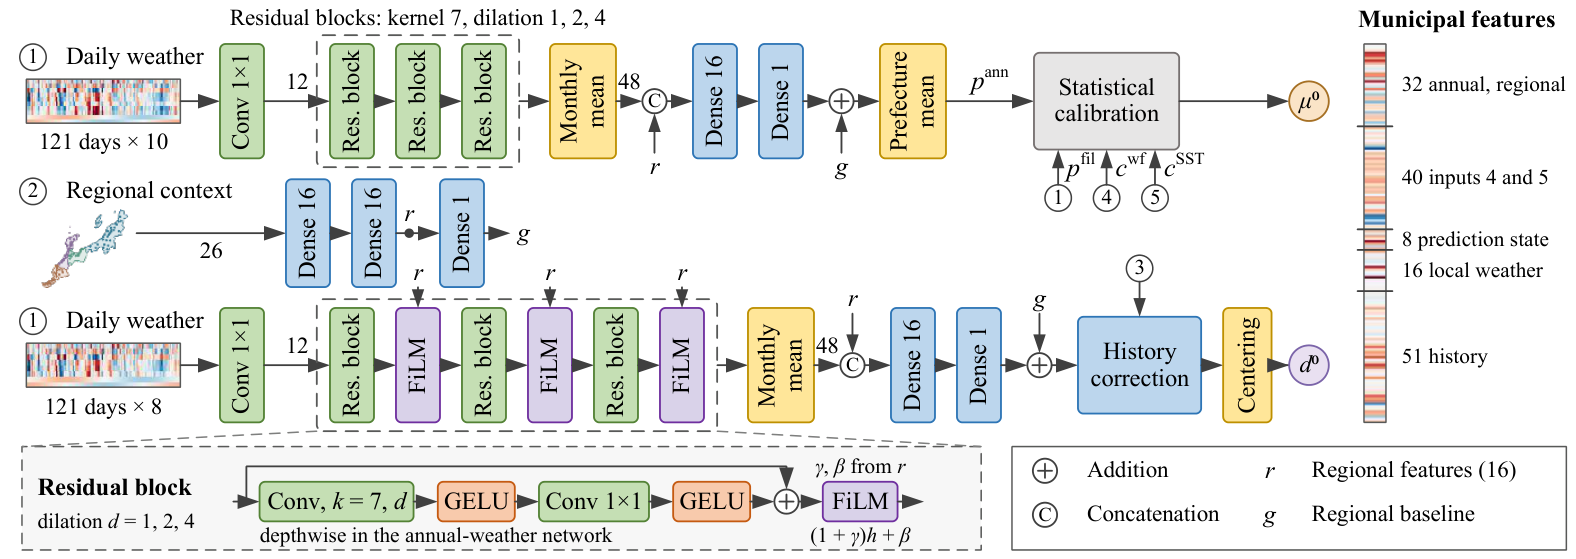
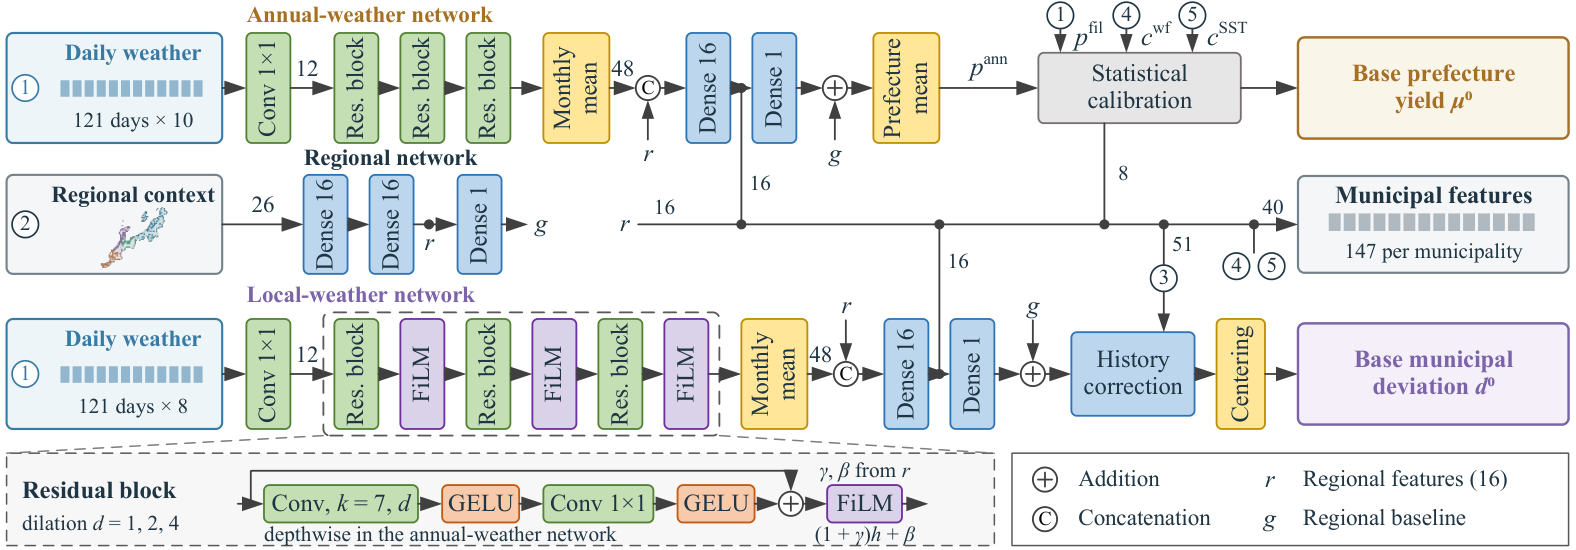
Link the HWSF code repository and update Figs. 6 and 7
The Code button and the data section now point to the HWSF repository
and its fitted models; the base prediction and hierarchical correction
figures follow the revised manuscript.

diff --git a/index.html b/index.html
@@ -86,7 +86,7 @@
     <span>Annual refitting, 2019&ndash;2025</span>
     <span>Prediction intervals</span>
   </div>
-  <p class="links"><a href="https://github.com/boukuhaku/yield-prediction/tree/deeplearning">Code (GitHub)</a></p>
+  <p class="links"><a href="https://github.com/boukuhaku/HWSF">Code (GitHub)</a> <a href="https://github.com/boukuhaku/HWSF/releases">Fitted models</a></p>
 </header>
 
 <figure class="narrow">
@@ -193,7 +193,7 @@
       <figcaption>Ocean regions of the SST indices and the domain of the SST maps.</figcaption>
     </figure>
   </div>
-  <p>All inputs were available before July&nbsp;31, 00:00 Japan Standard Time. We do not redistribute the source data; they can be obtained from the providers. The code and experiment records are available in the <a href="https://github.com/boukuhaku/yield-prediction/tree/deeplearning">GitHub repository</a>.</p>
+  <p>All inputs were available before July&nbsp;31, 00:00 Japan Standard Time. We do not redistribute the source data; they can be obtained from the providers. The code and the fitted models are available in the <a href="https://github.com/boukuhaku/HWSF">GitHub repository</a>.</p>
   <ul class="sources">
     <li>Municipal rice yields: crop statistics of the Ministry of Agriculture, Forestry and Fisheries of Japan (<a href="https://www.maff.go.jp/j/tokei/kouhyou/sakumotu/sakkyou_kome/">MAFF</a>, in Japanese)</li>
     <li>Daily weather: agro-meteorological grid data of the National Agriculture and Food Research Organization (<a href="https://www.naro.go.jp/project/results/laboratory/narc/2012/210a1_01_43.html">NARO</a>, in Japanese; registration required)</li>

diff --git a/README.md b/README.md
@@ -4,6 +4,6 @@ Project page of the manuscript *Preharvest Municipal Rice Yield Estimation With 
 
 Page: https://boukuhaku.github.io/hwsf-rice-yield/
 
-Code: https://github.com/boukuhaku/yield-prediction/tree/deeplearning
+Code and fitted models: https://github.com/boukuhaku/HWSF
 
 The page summarizes the model (HWSF), the uncertainty evaluation, and the main results. Figures and numbers are taken from the manuscript. The source data are not redistributed here; the page lists their providers.
